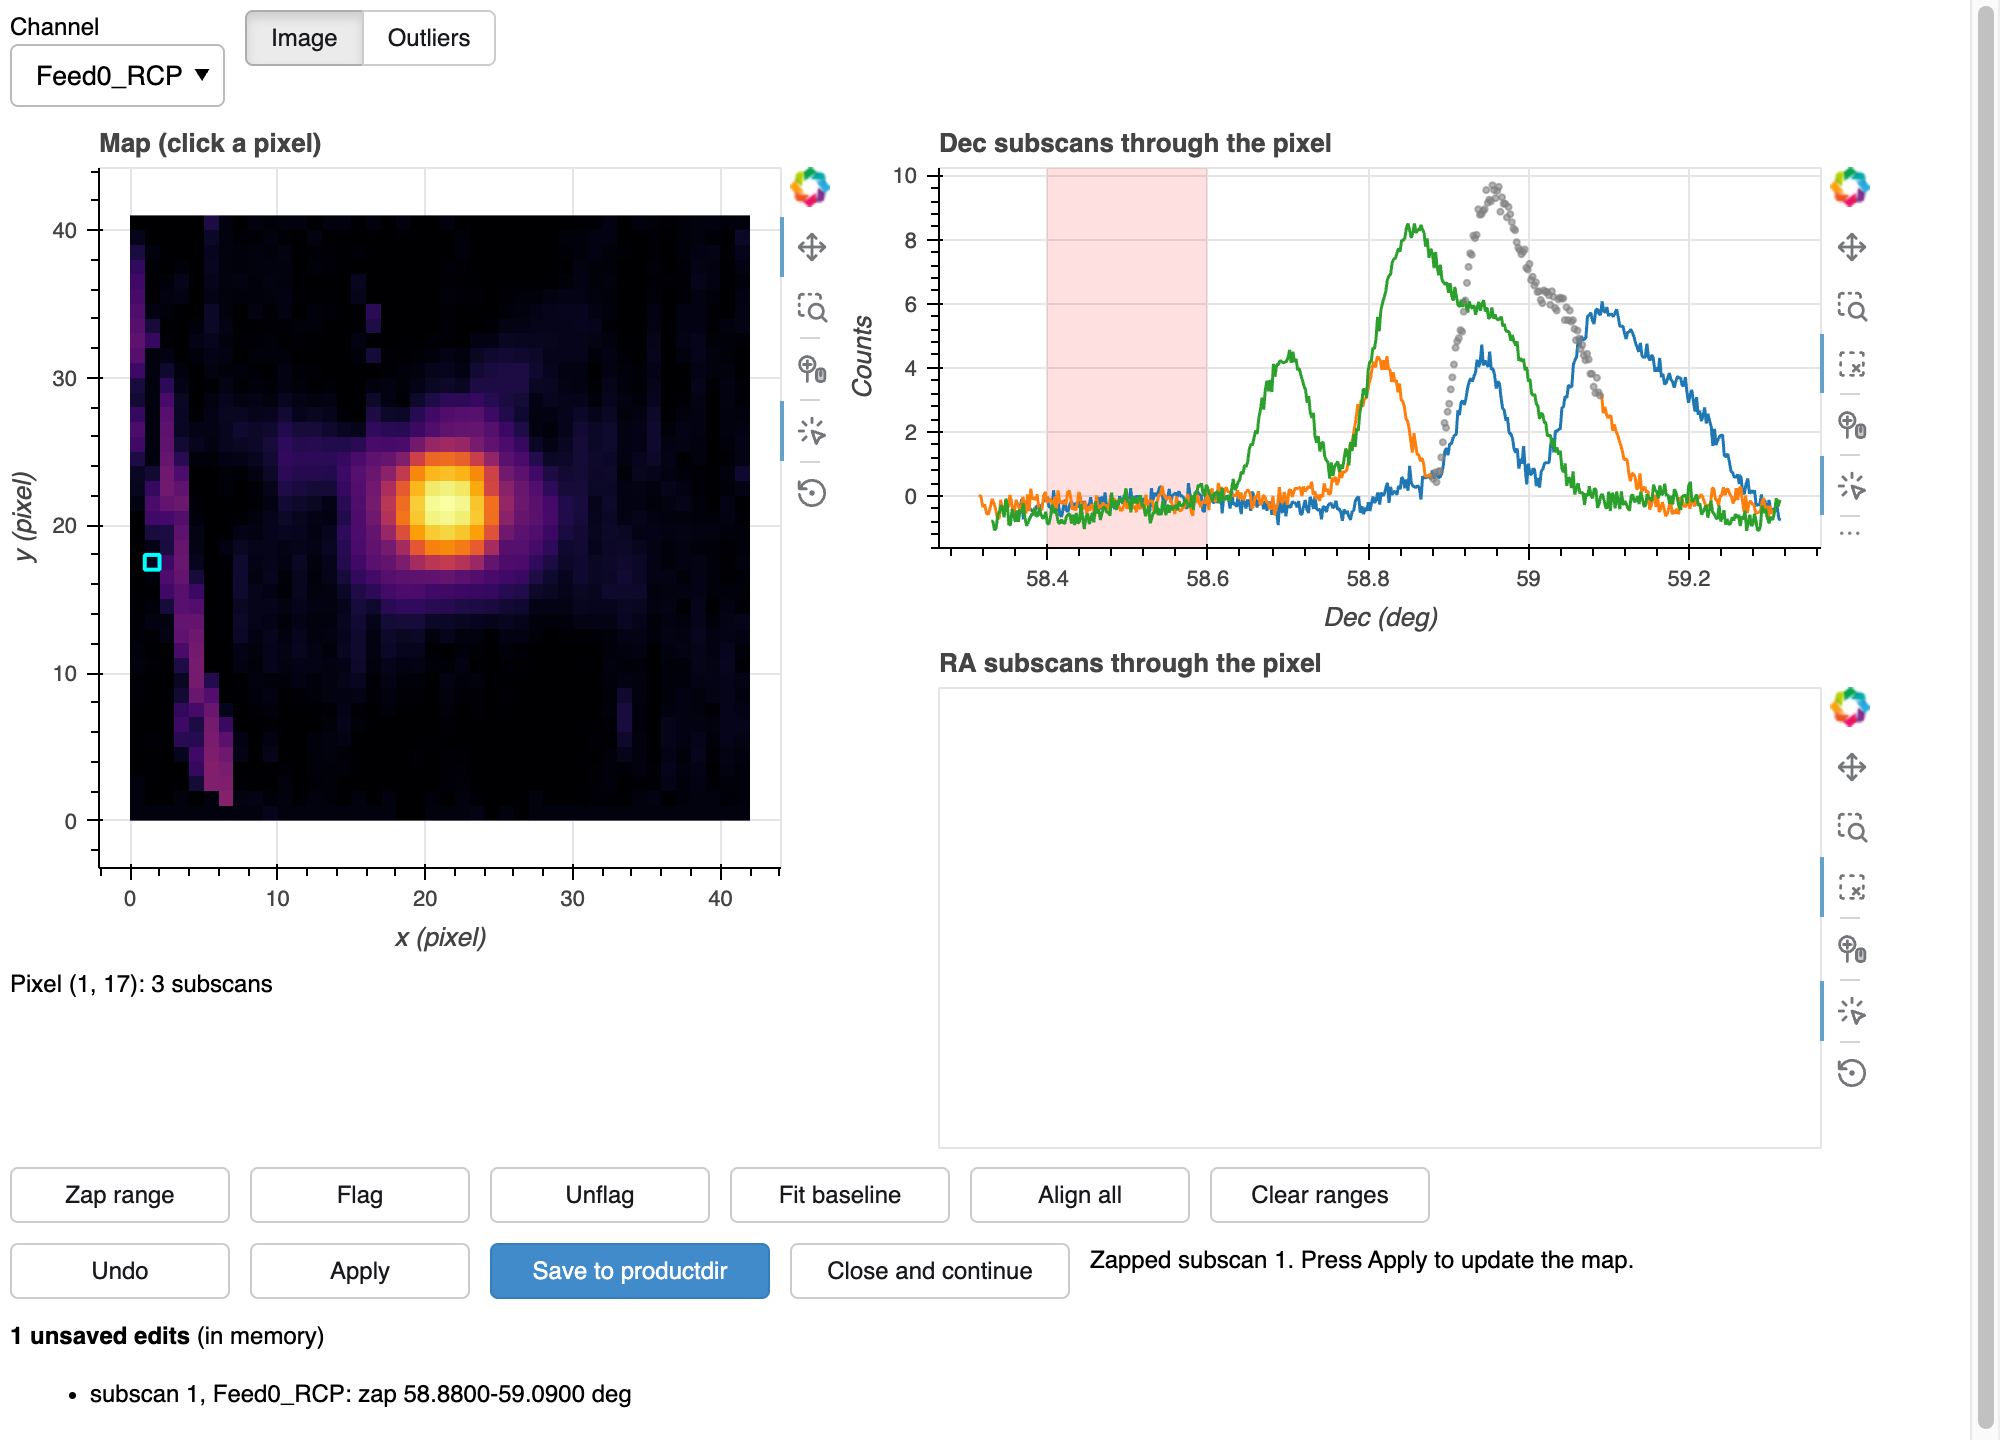
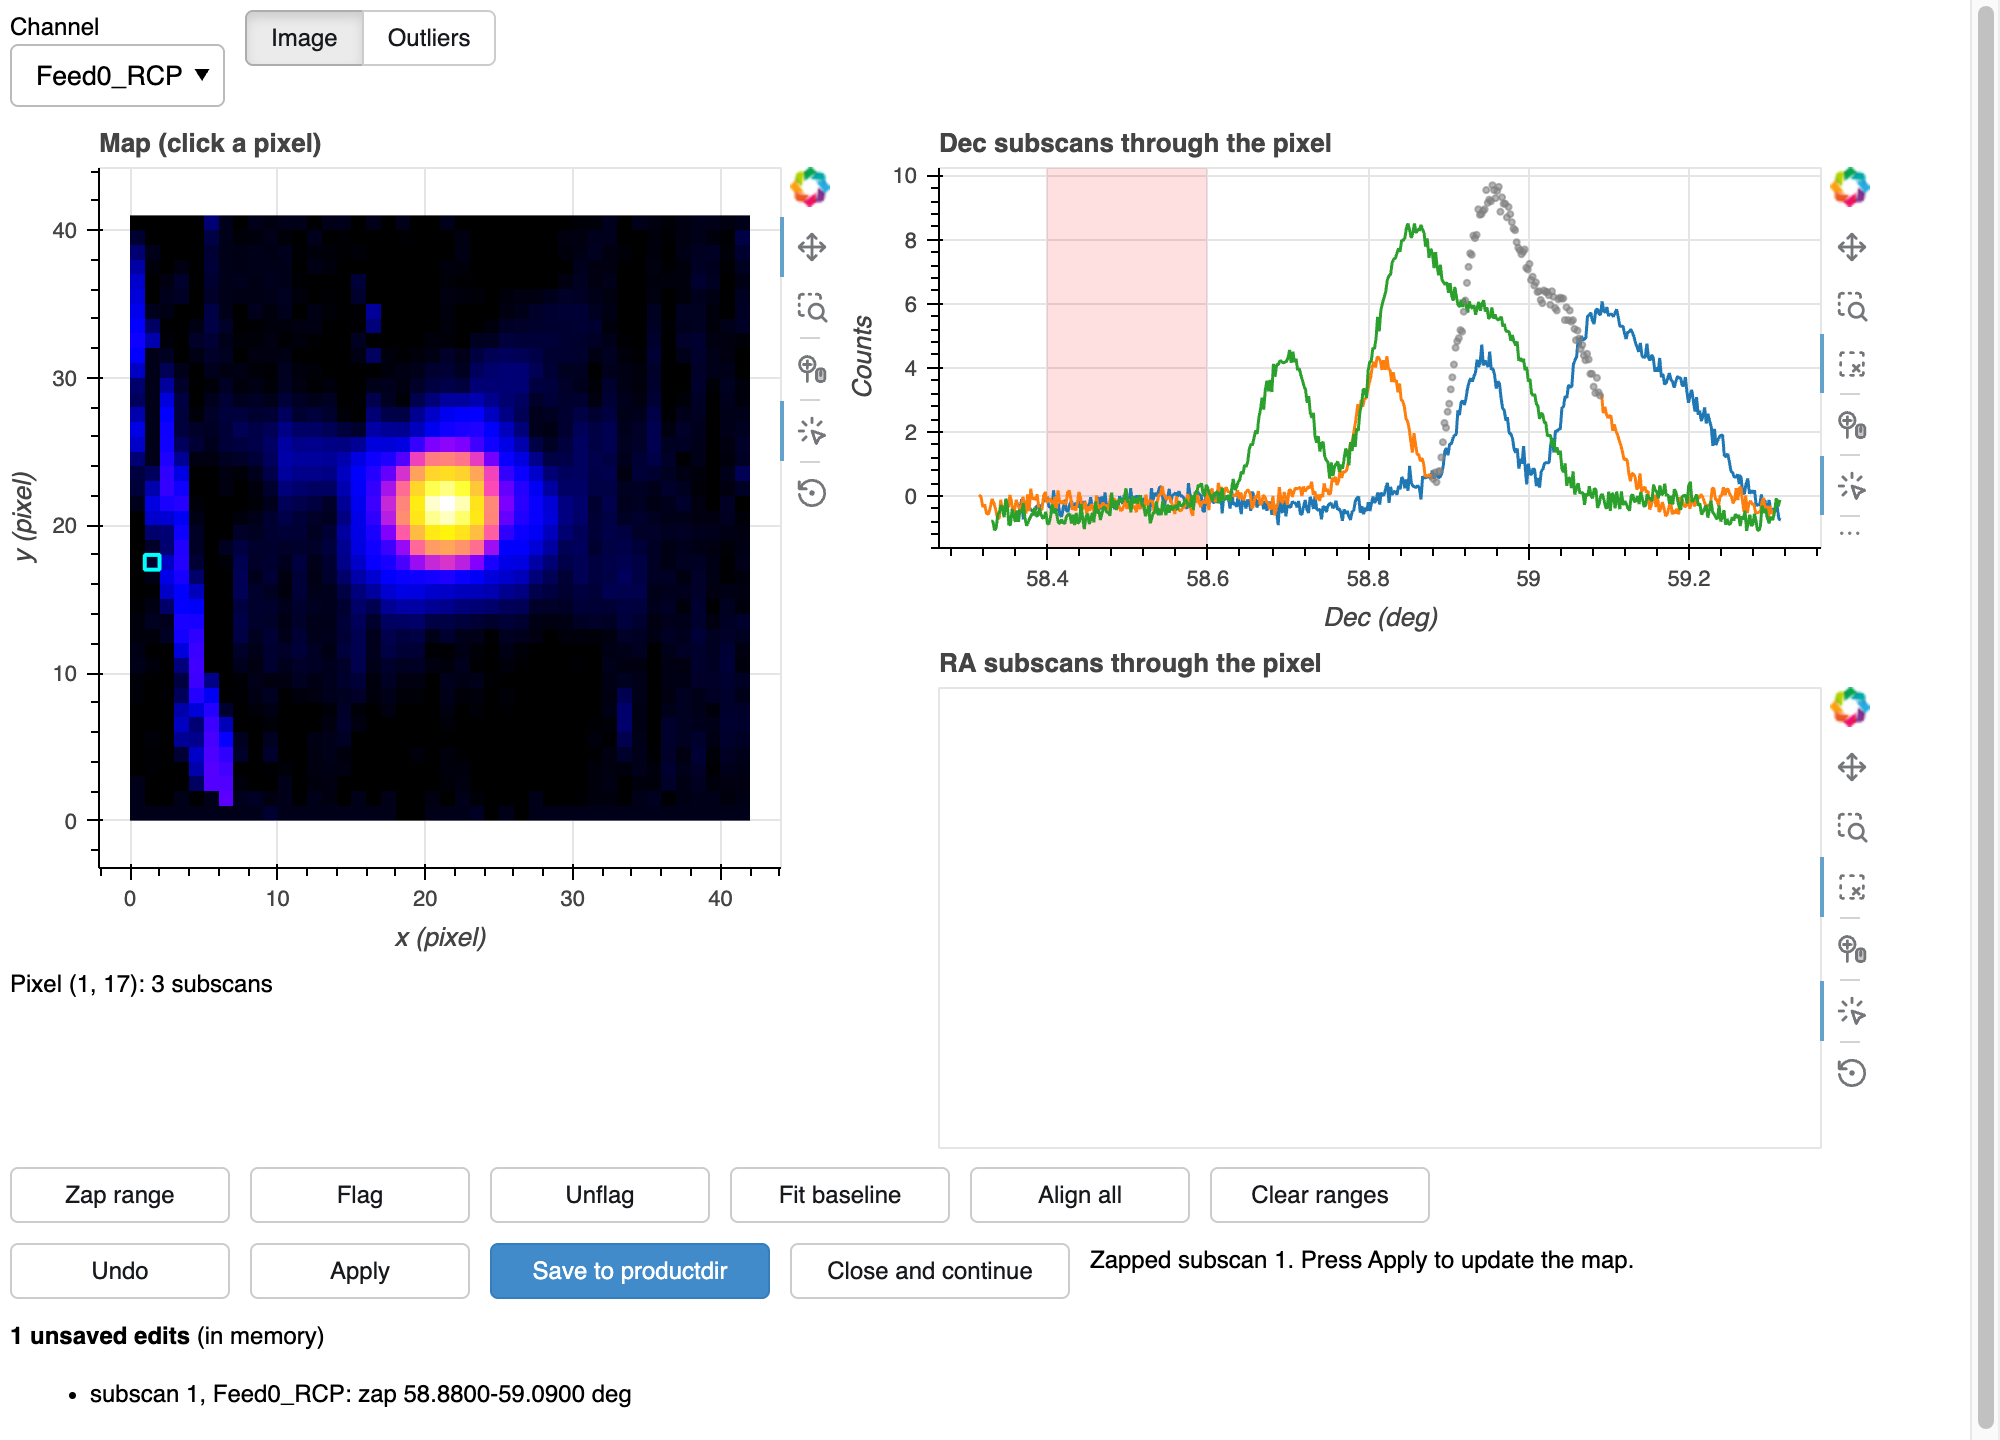
Web filter map: gnuplot2 colours and log-scaled outlier view, as in the old display

diff --git a/srttools/web_filter.py b/srttools/web_filter.py
@@ -38,6 +38,15 @@ LINE_COLORS = ["#1f77b4", "#ff7f0e", "#2ca02c", "#d62728", "#9467bd", "#8c564b",
 MAP_KINDS = ["Image", "Outliers"]
 
 
+def _gnuplot2_palette():
+    """The gnuplot2 colour map of the old matplotlib display, as 256 hex colours."""
+    from matplotlib import colormaps
+    from matplotlib.colors import to_hex
+
+    cmap = colormaps["gnuplot2"]
+    return [to_hex(cmap(i / 255)) for i in range(256)]
+
+
 def _finite_image(img):
     """Copy of the image with NaNs and infinities replaced by the median of the rest."""
     img = np.array(img, dtype=float)
@@ -163,7 +172,7 @@ class FilterApp:
             x_axis_label="x (pixel)",
             y_axis_label="y (pixel)",
         )
-        self.color_mapper = LinearColorMapper(palette="Inferno256")
+        self.color_mapper = LinearColorMapper(palette=_gnuplot2_palette())
         fig.image(
             image="image",
             x="x",
@@ -249,14 +258,21 @@ class FilterApp:
         expo = np.asarray(images[f"{ch}-EXPO"])
         mean_expo = np.mean(expo[expo > 0]) if np.any(expo > 0) else 0
         stat = "Outliers" if mean_expo > 6 and f"{ch}-Outliers" in images else "Sdev"
-        return _finite_image(images[f"{ch}-{stat}"])
+        # As in the old display: empty pixels set to the mean, then log scale
+        img = np.array(images[f"{ch}-{stat}"], dtype=float)
+        bad = (img == 0) | ~np.isfinite(img)
+        if np.all(bad):
+            return np.zeros_like(img)
+        img[bad] = np.mean(img[~bad])
+        return ds9_like_log_scale(img)
 
     def update_map(self):
         """Redraw the map from the current images of the scan set."""
         img = self._map_array()
         ny, nx = img.shape
         self.image_source.data = dict(image=[img], x=[0], y=[0], dw=[nx], dh=[ny])
-        self.color_mapper.low = float(np.percentile(img, 20 if self.map_kind == "Image" else 1))
+        # Same limits as the old matplotlib display
+        self.color_mapper.low = float(np.percentile(img, 20))
         self.color_mapper.high = float(np.max(img))
 
     def update_subscans(self):

diff --git a/srttools/tests/test_web_filter.py b/srttools/tests/test_web_filter.py
@@ -188,3 +188,25 @@ def test_click_elsewhere_after_zap(app):
     assert source.selected.indices == []
     app._report_errors(app.zap)()
     assert "Select a subscan first" in app.status.text
+
+
+def test_map_scaling_matches_old_display(app):
+    """Both views use the old display's look: ds9-like log scale from the 20th percentile, gnuplot2."""
+    from matplotlib import colormaps
+    from matplotlib.colors import to_hex
+
+    from srttools.utils import ds9_like_log_scale
+
+    assert app.color_mapper.palette[-1] == to_hex(colormaps["gnuplot2"](1.0))
+    ch = app.channel
+    expo = np.asarray(app.scanset.images[f"{ch}-EXPO"])
+    stat = "Outliers" if np.mean(expo[expo > 0]) > 6 else "Sdev"
+    for kind, name in [("Image", ch), ("Outliers", f"{ch}-{stat}")]:
+        app.set_map_kind(kind)
+        img = np.array(app.scanset.images[name], dtype=float)
+        if kind == "Outliers":
+            bad = (img == 0) | ~np.isfinite(img)
+            img[bad] = np.mean(img[~bad])
+        expected = ds9_like_log_scale(img)
+        assert np.allclose(app.image_source.data["image"][0], expected)
+        assert np.isclose(app.color_mapper.low, np.percentile(expected, 20))

diff --git a/docs/technical_details.rst b/docs/technical_details.rst
@@ -349,9 +349,13 @@ The interactive filter has two layers:
   tunnel, which requires a login on the machine. There is no password: other
   users logged in to the same machine can open the page too.
 
-The map is the image of one channel, with the same logarithmic scale as ds9.
-The "Outliers" view shows the ``-Outliers`` image when the pixels have more
-than 6 samples on average, and the standard deviation image otherwise.
+The map looks as in the old matplotlib display: the ds9-like logarithmic
+scale (``srttools.utils.ds9_like_log_scale``), colours from the 20th
+percentile to the maximum, and the ``gnuplot2`` colour map, whose blue low end
+shows faint stripes better than darker colour maps. The "Outliers" view shows
+the ``-Outliers`` image when the pixels have more than 6 samples on average,
+and the standard deviation image otherwise, on the same scale, after setting
+empty pixels to the mean of the others.
 
 Speed. Measured on an Apple M1 Pro laptop, with bokeh 3.9, on the W44
 maps of 2016-02-25 (K band, two channels, 267,627 samples in 339 subscans,
